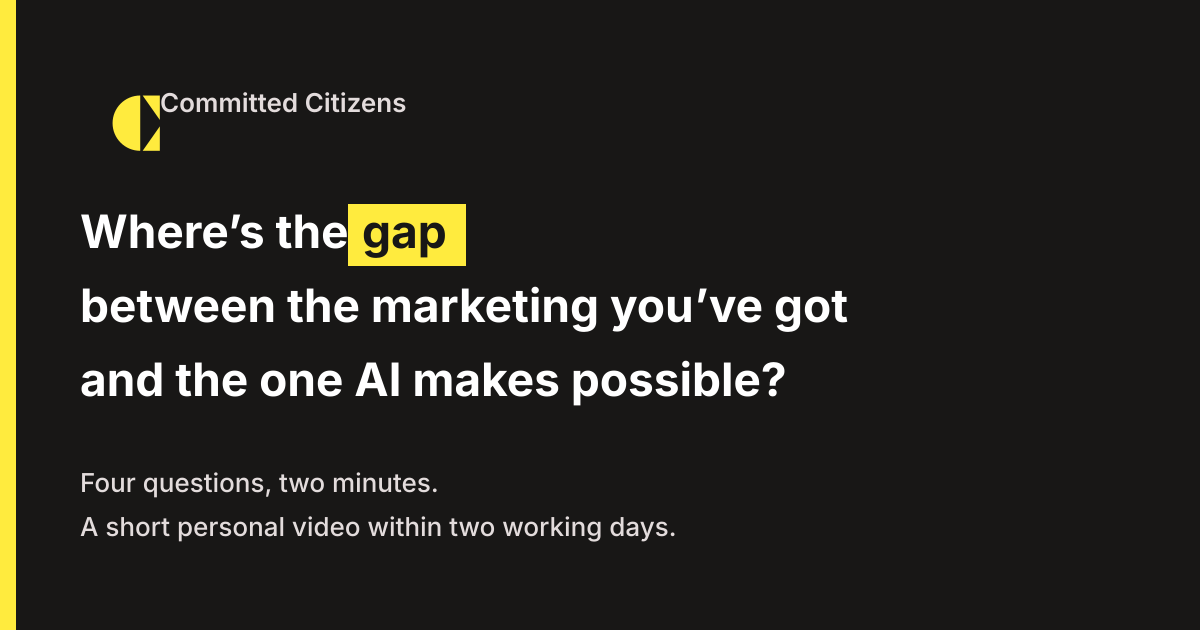
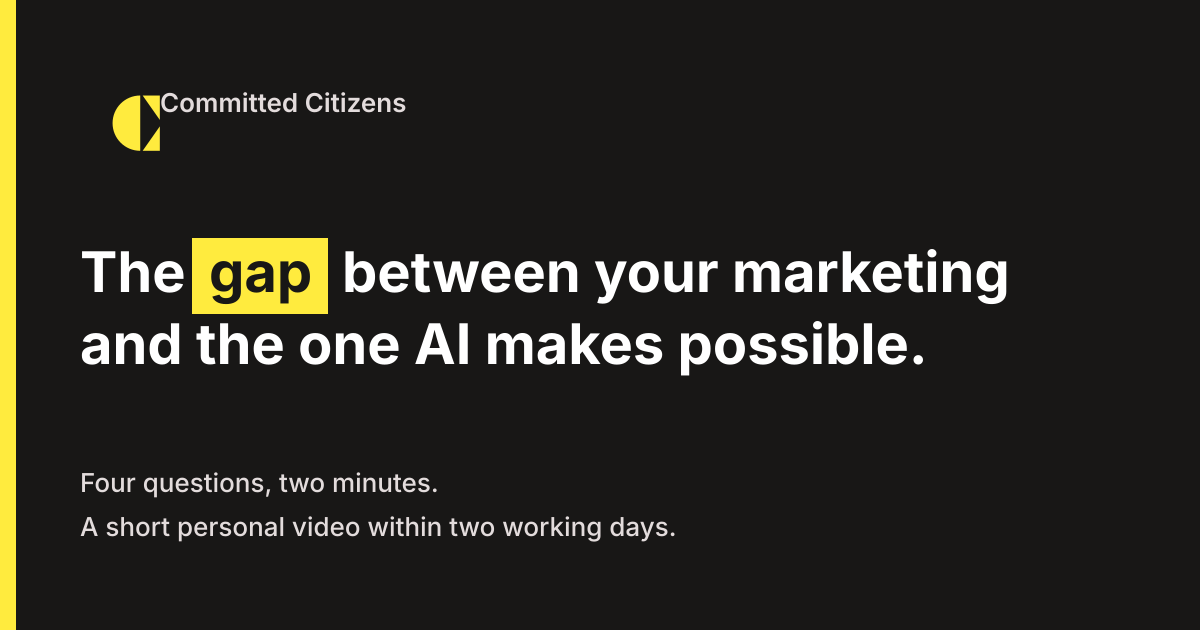
Shorten the gap headline.
The page title and share image now use the same line: the gap between your marketing and the one AI makes possible.

Changed region(s): [[0.0617, 0.3016, 0.8633, 0.6333]]

diff --git a/components/gap/gap-form.tsx b/components/gap/gap-form.tsx
@@ -116,7 +116,7 @@ export function GapForm() {
     <div className="min-h-screen bg-brand-white">
       <div className="mx-auto max-w-[660px] px-6 pt-32 pb-32 lg:pt-40 lg:pb-24">
         <h1 className="text-balance font-display text-[clamp(2rem,6vw,3rem)] font-bold leading-[1.05] text-brand-dark">
-          Where’s the <span className="bg-brand-yellow-light px-1">gap</span> between the marketing you’ve got and the one AI makes possible?
+          The <span className="bg-brand-yellow-light px-1">gap</span> between your marketing and the one AI makes possible.
         </h1>
 
         <div className="mt-8 flex flex-col gap-5 text-base leading-relaxed text-brand-dark">

diff --git a/app/gap/page.tsx b/app/gap/page.tsx
@@ -2,7 +2,7 @@ import type { Metadata } from "next"
 import { GapForm } from "@/components/gap/gap-form"
 import { absoluteUrl, brandedTitle, canonicalAlternates } from "@/lib/seo"
 
-const title = "Where’s the gap between the marketing you’ve got and the one AI makes possible?"
+const title = "The gap between your marketing and the one AI makes possible."
 const description =
   "Four questions, two minutes. Within two working days we’ll send you a short personal video: our initial read on the opportunity, what may be getting in the way, and where we’d begin."
 
